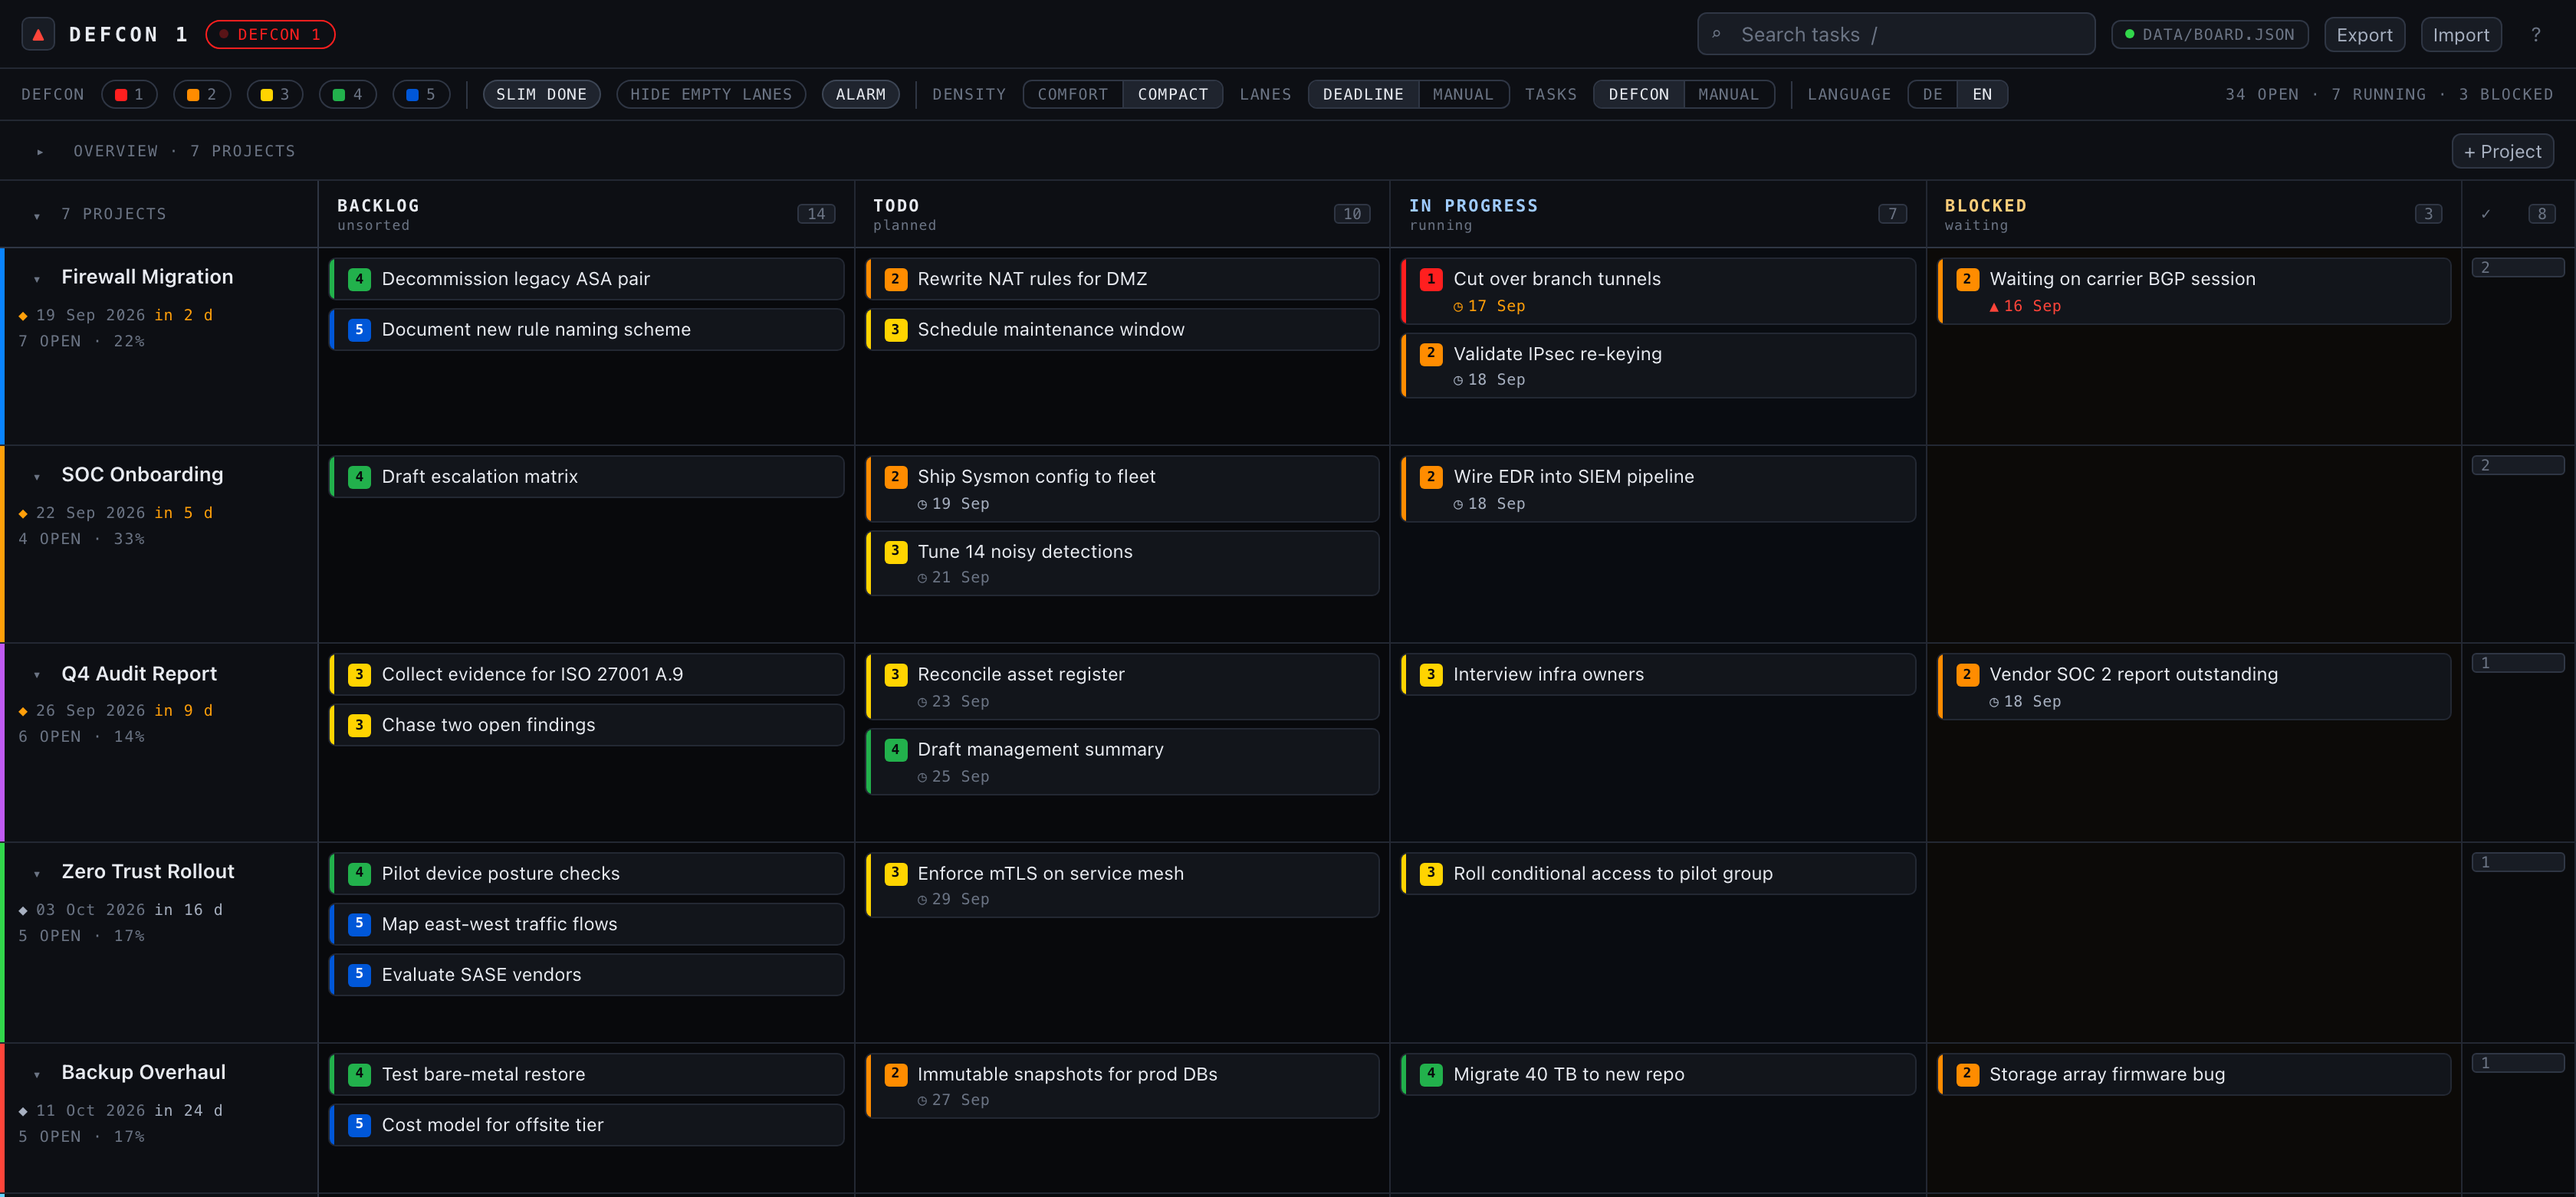
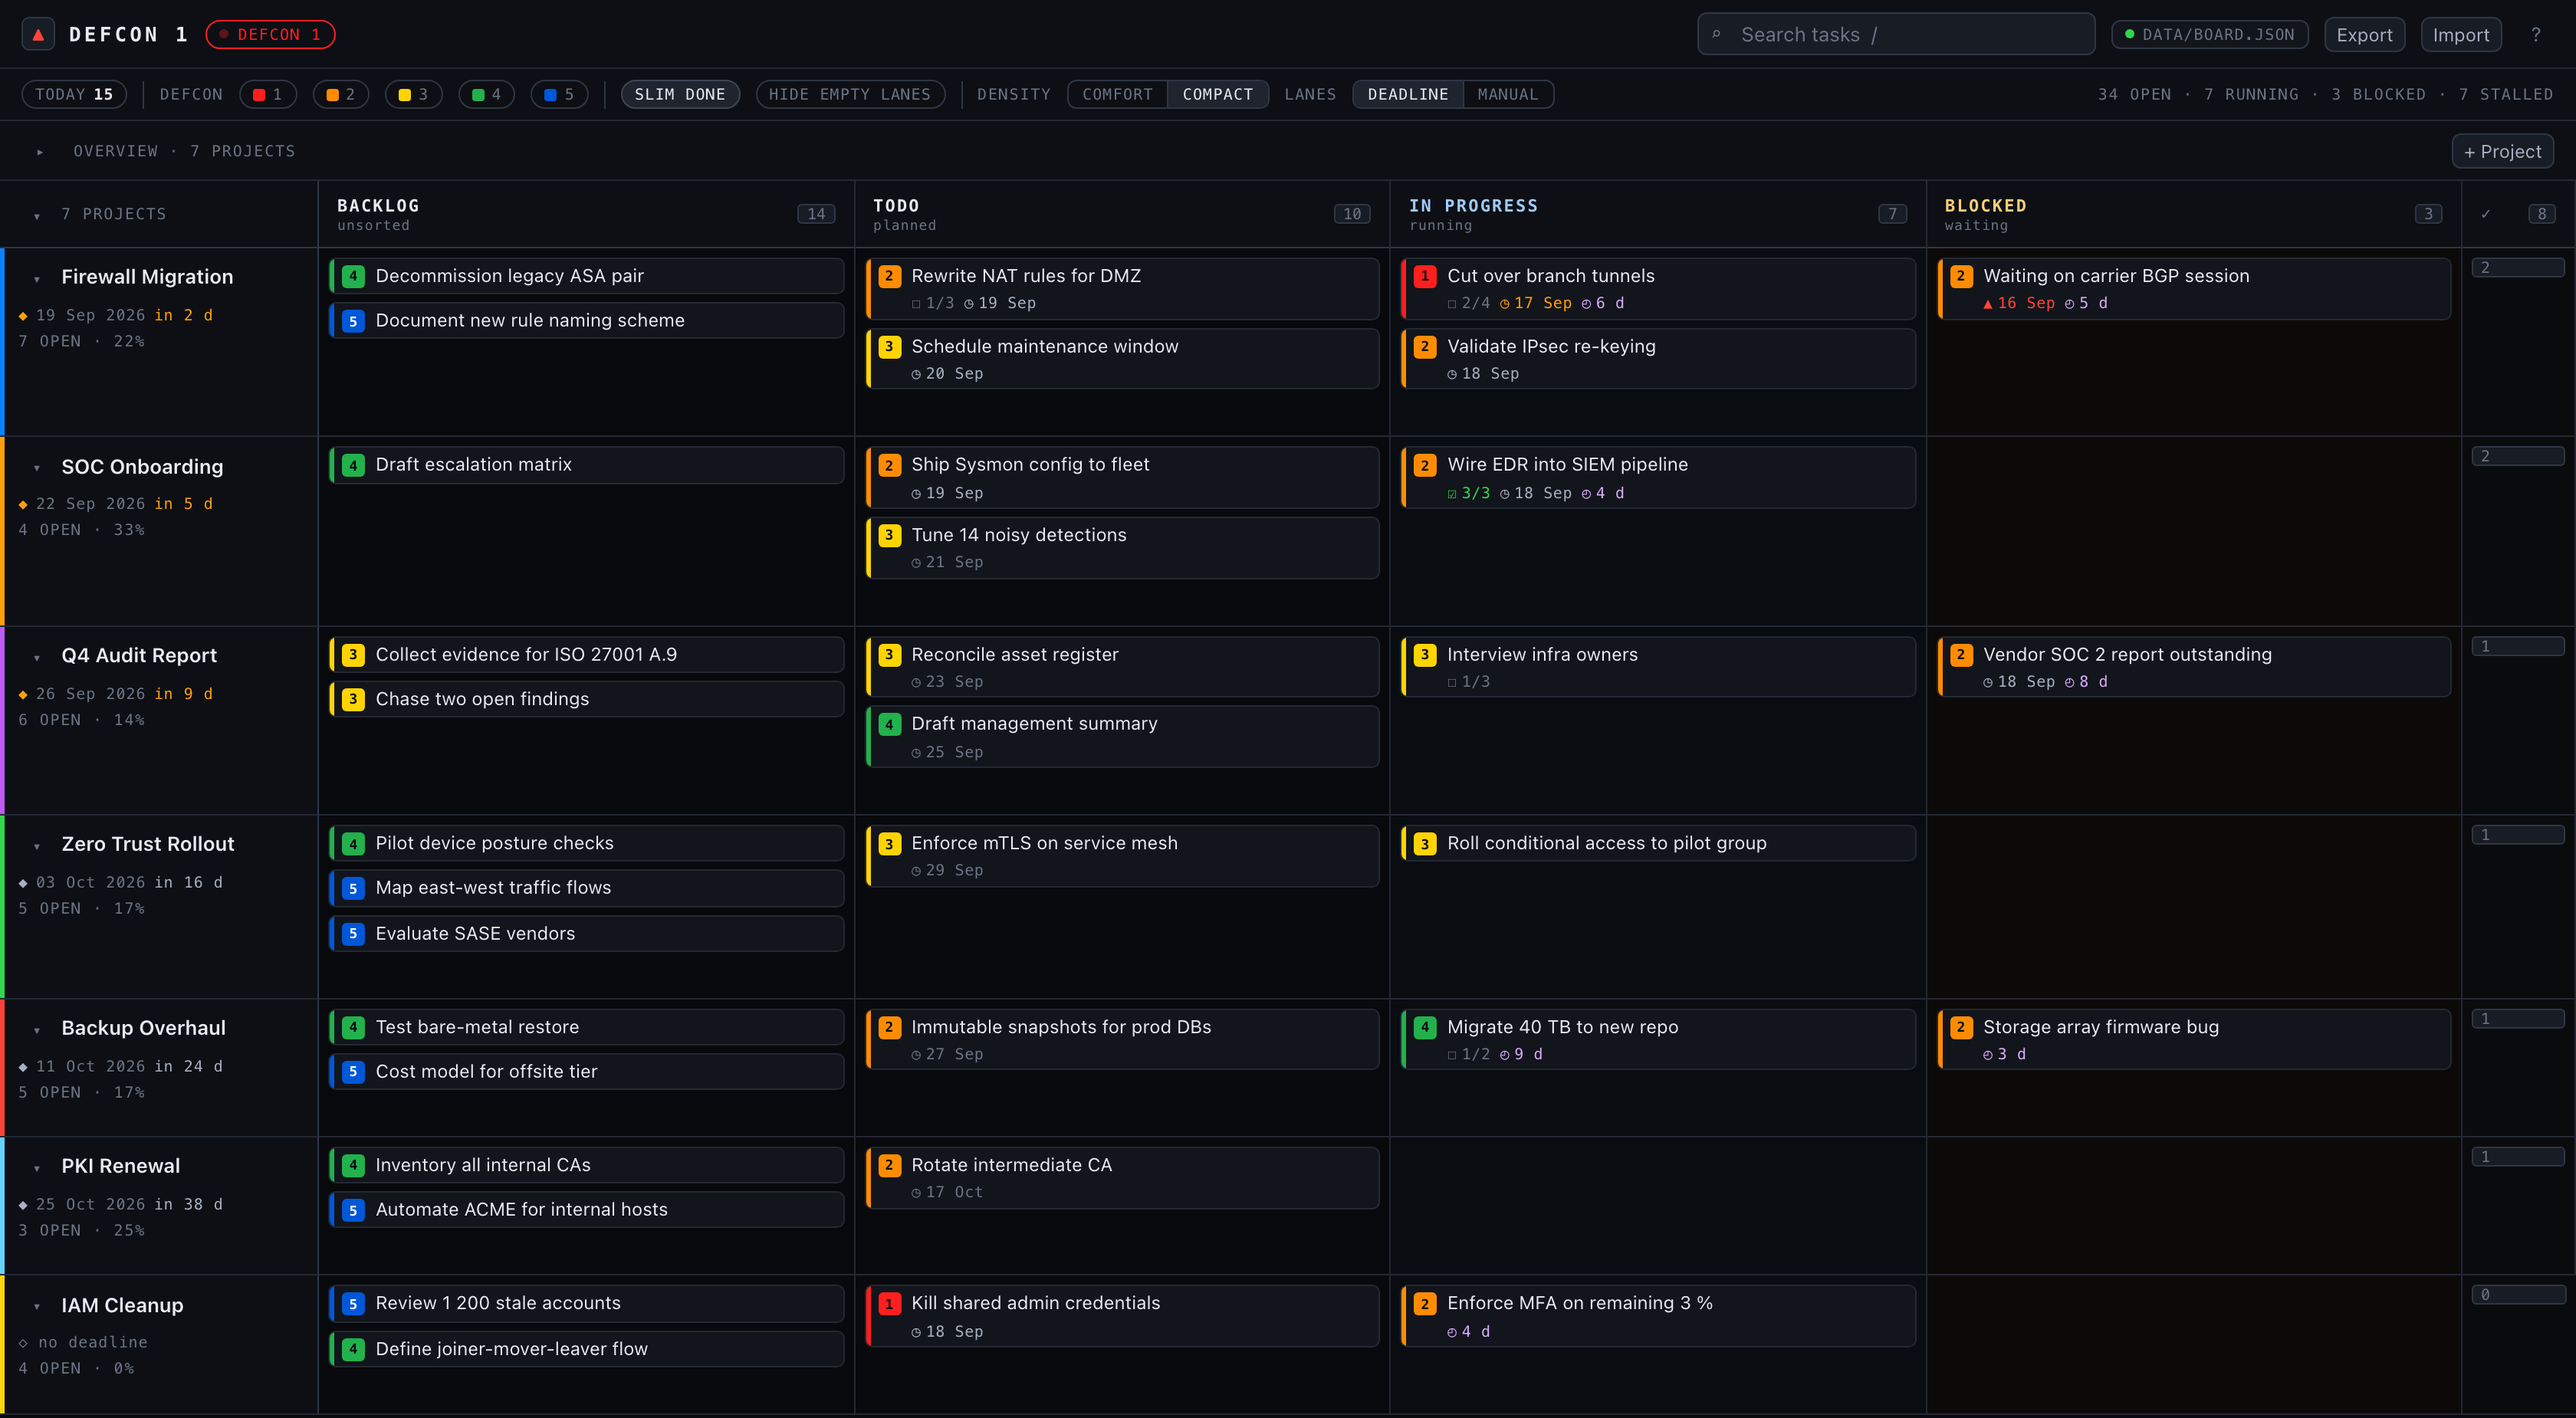
docs: reshoot screenshots with idle time, checklists and today
The previous images came from the i18n branch, so they showed the English
UI and the new DEFCON palette but none of the three features main has
gained since: idle time, task checklists and the Today list.

Shot from main with a throwaway patch that swaps in the new signal
palette and the English strings, so every current feature is visible and
nothing is left in German:

- hero.png     five lanes, comfort density, stale badges and checklist tallies
- compact.png  all seven projects at once, compact density, slim Done
- today.png    the Today list with all four pressure groups

Also adds today.png to the Today section of the README.

diff --git a/README.md b/README.md
@@ -82,6 +82,10 @@ has its own opinion about what is urgent, but it does respect the project focus.
 Selection and the usual keys (<kbd>1</kbd>–<kbd>5</kbd>, <kbd>e</kbd>,
 <kbd>x</kbd>, <kbd>Backspace</kbd>) work exactly as on the board.
 
+<div align="center">
+<img src="docs/images/today.png" alt="The Today list: four groups — Overdue, Due today, In progress and Hot — each task on one row with its DEFCON badge, checklist tally, due date, idle time, status and project" width="100%">
+</div>
+
 ### A density switch that actually earns its keep
 
 Press <kbd>d</kbd> for compact mode, and narrow the Done column to just its
